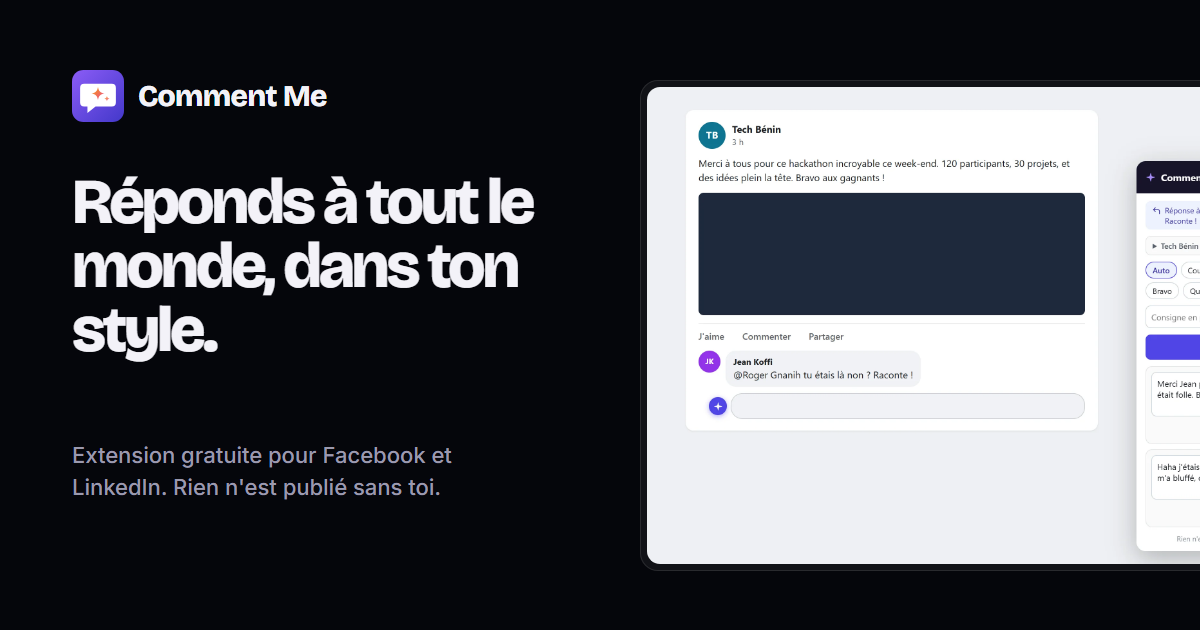
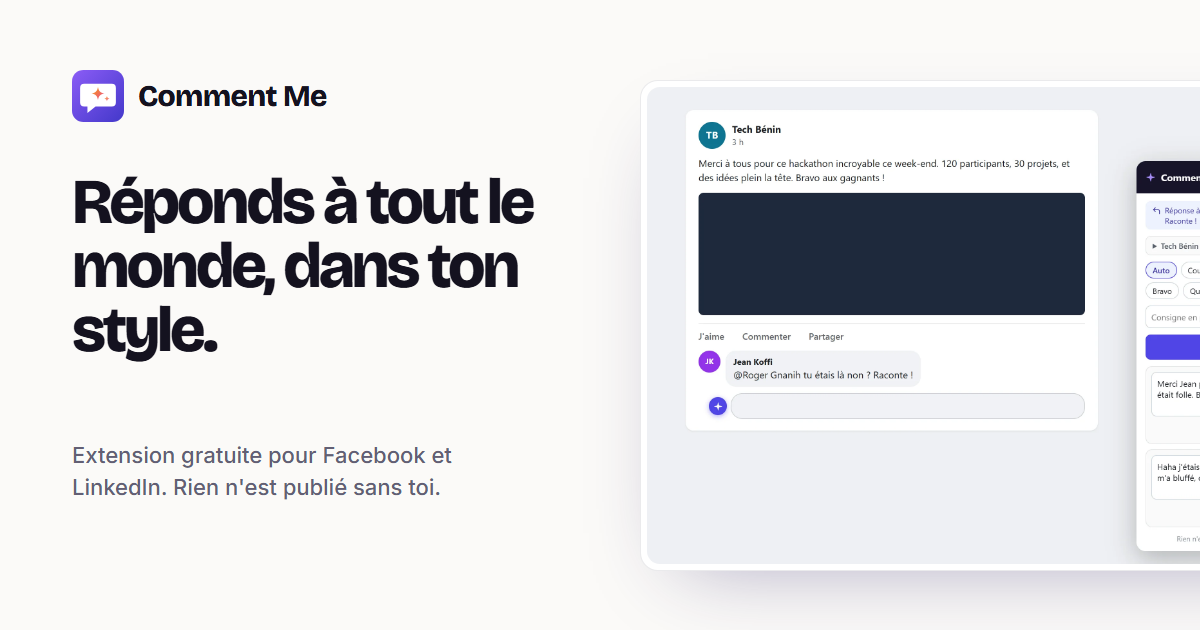
Site : thème clair, aperçu de lien clair, retrait de caractères parasites

diff --git a/docs/style.css b/docs/style.css
@@ -1,11 +1,11 @@
 :root {
-  --bg: #05060b;
-  --bg-2: #0b0c14;
-  --line: rgba(255, 255, 255, .08);
-  --text: #f3f2f8;
-  --muted: #9b99ae;
-  --soft: #c9c7d6;
-  --accent: #8b7cf6;
+  --bg: #fbfaf8;
+  --bg-2: #ffffff;
+  --line: rgba(20, 18, 40, .09);
+  --text: #14121f;
+  --muted: #625f74;
+  --soft: #3c3a4c;
+  --accent: #5b45e0;
   --radius: 22px;
   --display: "Bricolage Grotesque", "Segoe UI Variable Display", "Segoe UI", system-ui, sans-serif;
   --body: "Inter", "Segoe UI Variable Text", "Segoe UI", system-ui, sans-serif;
@@ -20,12 +20,12 @@ h1, h2, h3 { font-family: var(--display); margin: 0; letter-spacing: -.035em; li
 p { margin: 0; }
 .wrap { max-width: 1080px; margin: 0 auto; padding: 0 24px; }
 .icon { width: 20px; height: 20px; flex: none; }
-.skip { position: absolute; left: -999px; top: 8px; background: #fff; color: #000; padding: 8px 14px; border-radius: 8px; z-index: 100; }
+.skip { position: absolute; left: -999px; top: 8px; background: #14121f; color: #fff; padding: 8px 14px; border-radius: 8px; z-index: 100; }
 .skip:focus { left: 8px; }
 :focus-visible { outline: 2px solid var(--accent); outline-offset: 3px; border-radius: 6px; }
 
 /* Navigation */
-.nav { position: sticky; top: 0; z-index: 50; background: rgba(5, 6, 11, .72); backdrop-filter: blur(14px); -webkit-backdrop-filter: blur(14px); border-bottom: 1px solid transparent; transition: border-color .2s; }
+.nav { position: sticky; top: 0; z-index: 50; background: rgba(251, 250, 248, .8); backdrop-filter: blur(14px); -webkit-backdrop-filter: blur(14px); border-bottom: 1px solid transparent; transition: border-color .2s; }
 .nav.scrolled { border-color: var(--line); }
 .nav .wrap { display: flex; align-items: center; justify-content: space-between; height: 68px; max-width: 1200px; }
 .brand { display: flex; align-items: center; gap: 10px; font: 700 17px var(--display); text-decoration: none; letter-spacing: -.02em; }
@@ -33,28 +33,28 @@ p { margin: 0; }
 .nav ul { display: flex; align-items: center; gap: 26px; list-style: none; margin: 0; padding: 0; font-size: 15px; }
 .nav ul a { text-decoration: none; color: var(--muted); transition: color .15s; }
 .nav ul a:hover { color: var(--text); }
-.nav ul a.btn-light, .nav ul a.btn-light:hover { color: #0b0b12; }
+.nav ul a.btn-light, .nav ul a.btn-light:hover { color: #fff; }
 
 /* Boutons */
 .btn { display: inline-flex; align-items: center; justify-content: center; gap: 10px; height: 52px; padding: 0 26px; border-radius: 999px; font: 600 16px var(--body); text-decoration: none; transition: transform .15s, background .15s, border-color .15s; border: 1px solid transparent; }
 .btn:hover { transform: translateY(-1px); }
-.btn-light { background: #fff; color: #0b0b12; }
-.btn-light:hover { background: #ecebf3; }
-.btn-dark { background: rgba(255, 255, 255, .04); color: var(--text); border-color: rgba(255, 255, 255, .16); }
-.btn-dark:hover { border-color: rgba(255, 255, 255, .32); }
+.btn-light { background: #14121f; color: #fff; }
+.btn-light:hover { background: #2a2740; }
+.btn-dark { background: #fff; color: var(--text); border-color: rgba(20, 18, 40, .14); }
+.btn-dark:hover { border-color: rgba(20, 18, 40, .3); }
 .btn-sm { height: 38px; padding: 0 16px; font-size: 14px; }
 
 /* Héros */
 .hero { position: relative; text-align: center; padding: 76px 0 40px; overflow: hidden; }
-.hero::before { content: ""; position: absolute; left: 50%; top: 360px; width: 760px; height: 420px; transform: translateX(-50%); background: radial-gradient(closest-side, rgba(110, 90, 240, .22), transparent); pointer-events: none; }
-.badge { display: inline-flex; align-items: center; gap: 8px; padding: 6px 14px; border: 1px solid var(--line); border-radius: 999px; font-size: 14px; color: var(--soft); background: rgba(255, 255, 255, .02); }
-.badge .dot { width: 7px; height: 7px; border-radius: 50%; background: #34d399; }
+.hero::before { content: ""; position: absolute; left: 50%; top: 360px; width: 760px; height: 420px; transform: translateX(-50%); background: radial-gradient(closest-side, rgba(110, 90, 240, .12), transparent); pointer-events: none; }
+.badge { display: inline-flex; align-items: center; gap: 8px; padding: 6px 14px; border: 1px solid var(--line); border-radius: 999px; font-size: 14px; color: var(--soft); background: #fff; }
+.badge .dot { width: 7px; height: 7px; border-radius: 50%; background: #16a34a; }
 .hero h1 { font-size: clamp(44px, 7.4vw, 92px); font-weight: 800; margin: 26px auto 22px; max-width: 11.5em; letter-spacing: -.05em; line-height: .98; }
 .hero .lead { font-size: clamp(17px, 2vw, 20px); color: var(--muted); max-width: 37em; margin: 0 auto; }
 .cta { display: flex; gap: 12px; justify-content: center; flex-wrap: wrap; margin-top: 34px; }
 .meta { margin-top: 18px; font-size: 14px; color: var(--muted); }
 .meta b { color: var(--soft); font-weight: 600; }
-.hero-shot { position: relative; margin: 64px auto 0; max-width: 1000px; border-radius: 20px; padding: 8px; background: rgba(255, 255, 255, .04); border: 1px solid var(--line); }
+.hero-shot { position: relative; margin: 64px auto 0; max-width: 1000px; border-radius: 20px; padding: 8px; background: #fff; border: 1px solid var(--line); box-shadow: 0 30px 80px -40px rgba(40, 30, 100, .35); }
 .hero-shot img { border-radius: 14px; width: 100%; height: auto; }
 
 /* Sections */
@@ -75,7 +75,7 @@ section { padding: 110px 0; }
 .feature { display: flex; gap: 20px; padding: 26px 0; border-bottom: 1px solid var(--line); }
 .feature h3 { font-size: 20px; letter-spacing: -.02em; margin: 2px 0 6px; }
 .feature p { color: var(--muted); font-size: 15.5px; }
-.tile { width: 50px; height: 50px; border-radius: 14px; display: grid; place-items: center; flex: none; color: #fff; box-shadow: inset 0 1px 0 rgba(255, 255, 255, .28), 0 8px 22px -10px var(--c); background: var(--c); }
+.tile { width: 50px; height: 50px; border-radius: 14px; display: grid; place-items: center; flex: none; color: #fff; box-shadow: inset 0 1px 0 rgba(255, 255, 255, .28), 0 8px 18px -10px var(--c); background: var(--c); }
 .tile .icon { width: 24px; height: 24px; }
 .t-violet { --c: #7c5cf0; } .t-amber { --c: #e8930c; } .t-sky { --c: #2a8ff0; }
 .t-rose { --c: #e2457a; } .t-green { --c: #1fa463; } .t-slate { --c: #5d6478; } .t-teal { --c: #0f9d9a; }
@@ -84,27 +84,27 @@ section { padding: 110px 0; }
 .show { display: grid; grid-template-columns: 1.25fr 1fr; gap: 64px; align-items: center; margin-top: 90px; }
 .show:first-of-type { margin-top: 56px; }
 .show.rev .shot { order: 2; }
-.shot { border-radius: 18px; padding: 6px; background: rgba(255, 255, 255, .04); border: 1px solid var(--line); }
+.shot { border-radius: 18px; padding: 6px; background: #fff; border: 1px solid var(--line); box-shadow: 0 24px 60px -36px rgba(40, 30, 100, .3); }
 .shot img { border-radius: 13px; width: 100%; height: auto; }
 .show h3 { font-size: clamp(28px, 3.4vw, 38px); font-weight: 800; letter-spacing: -.04em; }
 .show p { color: var(--muted); margin-top: 16px; font-size: 17px; }
 .checks { list-style: none; padding: 0; margin: 22px 0 0; display: grid; gap: 10px; color: var(--soft); font-size: 15.5px; }
 .checks li { display: flex; gap: 10px; align-items: flex-start; }
-.checks .icon { width: 18px; height: 18px; color: #34d399; margin-top: 3px; }
+.checks .icon { width: 18px; height: 18px; color: #16a34a; margin-top: 3px; }
 
 /* Étapes */
 .steps { display: grid; grid-template-columns: repeat(3, 1fr); gap: 18px; margin-top: 56px; counter-reset: s; }
-.step { padding: 30px; border-radius: var(--radius); background: var(--bg-2); border: 1px solid var(--line); }
-.step::before { counter-increment: s; content: counter(s); display: grid; place-items: center; width: 36px; height: 36px; border-radius: 10px; background: rgba(139, 124, 246, .14); color: var(--accent); font: 700 16px var(--display); margin-bottom: 22px; }
+.step { box-shadow: 0 1px 2px rgba(20, 18, 40, .04); padding: 30px; border-radius: var(--radius); background: var(--bg-2); border: 1px solid var(--line); }
+.step::before { counter-increment: s; content: counter(s); display: grid; place-items: center; width: 36px; height: 36px; border-radius: 10px; background: rgba(91, 69, 224, .1); color: var(--accent); font: 700 16px var(--display); margin-bottom: 22px; }
 .step h3 { font-size: 21px; letter-spacing: -.02em; margin-bottom: 8px; }
 .step p { color: var(--muted); font-size: 15.5px; }
 
 /* Fournisseurs d'IA */
 .ai { display: grid; grid-template-columns: repeat(4, 1fr); gap: 1px; margin-top: 52px; background: var(--line); border: 1px solid var(--line); border-radius: var(--radius); overflow: hidden; }
-.ai div { background: var(--bg); padding: 22px 24px; }
+.ai div { background: #fff; padding: 22px 24px; }
 .ai b { display: block; font: 600 17px var(--display); letter-spacing: -.01em; }
 .ai span { font-size: 14px; color: var(--muted); }
-.ai .free span { color: #34d399; }
+.ai .free span { color: #15803d; }
 
 /* Engagements */
 .trio { display: grid; grid-template-columns: repeat(3, 1fr); gap: 48px; margin-top: 56px; }
@@ -118,8 +118,8 @@ section { padding: 110px 0; }
 .card ol { margin: 0; padding-left: 20px; color: var(--soft); display: grid; gap: 9px; }
 .card ol li::marker { color: var(--muted); }
 .card p { color: var(--muted); }
-code { font: 500 .88em ui-monospace, "Cascadia Code", Consolas, monospace; background: rgba(255, 255, 255, .07); padding: 2px 7px; border-radius: 6px; color: var(--text); }
-.pill { display: inline-block; font: 600 12px var(--body); color: #fbbf24; border: 1px solid rgba(251, 191, 36, .35); border-radius: 999px; padding: 2px 10px; margin-left: 8px; vertical-align: 3px; letter-spacing: 0; }
+code { font: 500 .88em ui-monospace, "Cascadia Code", Consolas, monospace; background: rgba(91, 69, 224, .08); padding: 2px 7px; border-radius: 6px; color: var(--text); }
+.pill { display: inline-block; font: 600 12px var(--body); color: #a16207; background: #fef9c3; border: 1px solid #fde68a; border-radius: 999px; padding: 2px 10px; margin-left: 8px; vertical-align: 3px; letter-spacing: 0; }
 
 /* FAQ */
 .faq { max-width: 780px; margin: 48px auto 0; }
@@ -133,7 +133,7 @@ code { font: 500 .88em ui-monospace, "Cascadia Code", Consolas, monospace; backg
 /* Contact */
 .contact { display: grid; grid-template-columns: repeat(3, 1fr); gap: 18px; margin-top: 52px; }
 .contact a { display: block; text-decoration: none; padding: 28px; border-radius: var(--radius); background: var(--bg-2); border: 1px solid var(--line); transition: border-color .15s, transform .15s; }
-.contact a:hover { border-color: rgba(255, 255, 255, .22); transform: translateY(-2px); }
+.contact a:hover { border-color: rgba(20, 18, 40, .2); transform: translateY(-2px); }
 .contact h3 { font-size: 19px; letter-spacing: -.02em; margin: 18px 0 6px; }
 .contact p { color: var(--muted); font-size: 15px; }
 
@@ -161,7 +161,7 @@ footer a:hover { color: var(--text); }
 
 /* 404 */
 .notfound { min-height: calc(100vh - 68px); display: grid; place-items: center; text-align: center; padding: 60px 24px; }
-.notfound .big { font: 800 clamp(110px, 22vw, 200px) var(--display); letter-spacing: -.06em; line-height: .9; color: rgba(255, 255, 255, .1); }
+.notfound .big { font: 800 clamp(110px, 22vw, 200px) var(--display); letter-spacing: -.06em; line-height: .9; color: rgba(20, 18, 40, .07); }
 .notfound h1 { font-size: clamp(30px, 4.6vw, 46px); font-weight: 800; margin-top: 10px; }
 .notfound p { color: var(--muted); margin: 14px auto 32px; max-width: 30em; }
 

diff --git a/docs/index.html b/docs/index.html
@@ -6,7 +6,7 @@
   <title>Comment Me : réponds à tout le monde, dans ton style</title>
   <meta name="description" content="Extension gratuite pour Facebook et LinkedIn : elle lit la publication, la résume et propose des commentaires dans ton style. Tu publies toi-même.">
   <link rel="canonical" href="https://rogerfarolix.github.io/comment-me/">
-  <meta name="theme-color" content="#05060b">
+  <meta name="theme-color" content="#fbfaf8">
 
   <meta property="og:type" content="website">
   <meta property="og:locale" content="fr_FR">
@@ -121,8 +121,8 @@
           <div class="feature reveal"><div class="tile t-amber"><svg class="icon"><use href="#i-zap"/></svg></div><div><h3>Prêt avant que tu demandes</h3><p>Les propositions se préparent dès que tu cliques dans la zone de commentaire. Le texte s'écrit sous tes yeux.</p></div></div>
           <div class="feature reveal"><div class="tile t-sky"><svg class="icon"><use href="#i-at"/></svg></div><div><h3>Répond aux tags</h3><p>L'extension comprend à quel commentaire tu réponds et qui t'a mentionné.</p></div></div>
           <div class="feature reveal"><div class="tile t-rose"><svg class="icon"><use href="#i-bell"/></svg></div><div><h3>Toutes tes notifications d'un coup</h3><p>Sur ta page Notifications, un bouton prépare une réponse pour chaque mention.</p></div></div>
-          <div class="feature reveal"><div class="tile t-green"><svg class="icon"><use href="#i-doc"/></svg></div><div><h3>Résumé en dix secondes</h3><p>Une longue publication&nbsp;? L'essentiel, les points clés et ce qu'on attend de toi.</p></div></div>
-          <div class="feature reveal"><div class="tile t-slate"><svg class="icon"><use href="#i-image"/></svg></div><div><h3>Lit aussi les images</h3><p>Une photo sans texte&nbsp;? L'IA la regarde pour écrire un commentaire pertinent.</p></div></div>
+          <div class="feature reveal"><div class="tile t-green"><svg class="icon"><use href="#i-doc"/></svg></div><div><h3>Résumé en dix secondes</h3><p>Une longue publication&nbsp;? L'essentiel, les points clés et ce qu'on attend de toi.</p></div></div>
+          <div class="feature reveal"><div class="tile t-slate"><svg class="icon"><use href="#i-image"/></svg></div><div><h3>Lit aussi les images</h3><p>Une photo sans texte&nbsp;? L'IA la regarde pour écrire un commentaire pertinent.</p></div></div>
         </div>
 
         <div class="show reveal">
@@ -141,7 +141,7 @@
         <div class="show rev reveal">
           <figure class="shot" style="margin:0"><img src="img/notifications.webp" width="2360" height="1480" loading="lazy" alt="Page de notifications Facebook : Comment Me a préparé une réponse pour la mention de Jean Koffi et pour celle d'Awa Diallo, et ignoré un simple « j'aime »."></figure>
           <div>
-            <h3>Vingt tags ce matin&nbsp;? Aucun problème.</h3>
+            <h3>Vingt tags ce matin&nbsp;? Aucun problème.</h3>
             <p>Ouvre tes notifications et clique sur « Répondre aux tags ». Chaque mention reçoit une réponse prête. Copie, ouvre, publie.</p>
             <ul class="checks">
               <li><svg class="icon"><use href="#i-check"/></svg>Seules les mentions et réponses sont retenues</li>
@@ -227,31 +227,31 @@
         </div>
         <div class="faq reveal">
           <details>
-            <summary>Est-ce vraiment gratuit&nbsp;?<svg class="icon"><use href="#i-chev"/></svg></summary>
+            <summary>Est-ce vraiment gratuit&nbsp;?<svg class="icon"><use href="#i-chev"/></svg></summary>
             <p>Oui. L'extension est gratuite et open source. L'IA, elle, dépend du fournisseur choisi : Google Gemini, Groq, Mistral, OpenRouter et Ollama proposent des offres gratuites, largement suffisantes pour un usage personnel.</p>
           </details>
           <details>
-            <summary>Est-ce que l'extension publie à ma place&nbsp;?<svg class="icon"><use href="#i-chev"/></svg></summary>
+            <summary>Est-ce que l'extension publie à ma place&nbsp;?<svg class="icon"><use href="#i-chev"/></svg></summary>
             <p>Jamais. Elle prépare le texte et peut le placer dans la zone de commentaire. Le clic sur « Publier » reste toujours le tien.</p>
           </details>
           <details>
-            <summary>Mon compte Facebook ou LinkedIn risque-t-il quelque chose&nbsp;?<svg class="icon"><use href="#i-chev"/></svg></summary>
+            <summary>Mon compte Facebook ou LinkedIn risque-t-il quelque chose&nbsp;?<svg class="icon"><use href="#i-chev"/></svg></summary>
             <p>L'extension n'automatise aucune action : pas de publication, pas de « j'aime », pas de clic à ta place sur les boutons de publication. Elle se contente de lire la page que tu consultes et de t'aider à écrire, comme un correcteur ou un assistant d'écriture.</p>
           </details>
           <details>
-            <summary>Où vont mes données&nbsp;?<svg class="icon"><use href="#i-chev"/></svg></summary>
+            <summary>Où vont mes données&nbsp;?<svg class="icon"><use href="#i-chev"/></svg></summary>
             <p>Tes réglages et ta clé restent dans ton navigateur. Le texte d'une publication est envoyé uniquement au fournisseur d'IA que tu as choisi, au moment où une proposition est demandée. Il n'y a aucun serveur Comment Me. Tous les détails sont dans la <a href="confidentialite.html">politique de confidentialité</a>.</p>
           </details>
           <details>
-            <summary>Comment l'IA apprend-elle mon style&nbsp;?<svg class="icon"><use href="#i-chev"/></svg></summary>
+            <summary>Comment l'IA apprend-elle mon style&nbsp;?<svg class="icon"><use href="#i-chev"/></svg></summary>
             <p>Dans les réglages, colle une dizaine de tes vrais commentaires. Un bouton peut aussi décrire ton style automatiquement. Si tu le souhaites, l'extension retient ensuite les commentaires que tu publies vraiment, sur ton ordinateur uniquement.</p>
           </details>
           <details>
-            <summary>Le bouton n'apparaît pas sur Facebook ou LinkedIn. Que faire&nbsp;?<svg class="icon"><use href="#i-chev"/></svg></summary>
+            <summary>Le bouton n'apparaît pas sur Facebook ou LinkedIn. Que faire&nbsp;?<svg class="icon"><use href="#i-chev"/></svg></summary>
             <p>Recharge la page. Ces sites changent souvent leur code : si le bouton reste absent, sélectionne le texte de la publication puis fais un clic droit, « Proposer un commentaire ». Signale-nous le problème pour qu'on le corrige.</p>
           </details>
           <details>
-            <summary>Pourquoi passer par le mode développeur&nbsp;?<svg class="icon"><use href="#i-chev"/></svg></summary>
+            <summary>Pourquoi passer par le mode développeur&nbsp;?<svg class="icon"><use href="#i-chev"/></svg></summary>
             <p>Les navigateurs n'installent en un clic que les extensions publiées dans leur boutique. La publication sur le Chrome Web Store, Edge Add-ons et Firefox Add-ons est en préparation. D'ici là, le mode développeur permet d'installer la version officielle téléchargée sur GitHub.</p>
           </details>
         </div>
@@ -262,12 +262,12 @@
       <div class="wrap">
         <div class="reveal">
           <p class="eyebrow">Contact</p>
-          <h2 id="c-title" class="title">Une question, un bug, une idée&nbsp;?</h2>
+          <h2 id="c-title" class="title">Une question, un bug, une idée&nbsp;?</h2>
           <p class="sub">Le projet vit sur GitHub. Écris-nous, on répond.</p>
         </div>
         <div class="contact">
-          <a class="reveal" href="https://github.com/rogerfarolix/comment-me/issues/new?labels=bug&amp;title=%5BBug%5D%20"><div class="tile t-rose"><svg class="icon"><use href="#i-help"/></svg></div><h3>Signaler un problème</h3><p>Le bouton n'apparaît pas, une réponse est bizarre&nbsp;? Décris-nous ce qui se passe.</p></a>
-          <a class="reveal" href="https://github.com/rogerfarolix/comment-me/issues/new?labels=enhancement&amp;title=%5BId%C3%A9e%5D%20"><div class="tile t-amber"><svg class="icon"><use href="#i-bulb"/></svg></div><h3>Proposer une idée</h3><p>Une fonctionnalité qui te ferait gagner du temps&nbsp;? Dis-le-nous.</p></a>
+          <a class="reveal" href="https://github.com/rogerfarolix/comment-me/issues/new?labels=bug&amp;title=%5BBug%5D%20"><div class="tile t-rose"><svg class="icon"><use href="#i-help"/></svg></div><h3>Signaler un problème</h3><p>Le bouton n'apparaît pas, une réponse est bizarre&nbsp;? Décris-nous ce qui se passe.</p></a>
+          <a class="reveal" href="https://github.com/rogerfarolix/comment-me/issues/new?labels=enhancement&amp;title=%5BId%C3%A9e%5D%20"><div class="tile t-amber"><svg class="icon"><use href="#i-bulb"/></svg></div><h3>Proposer une idée</h3><p>Une fonctionnalité qui te ferait gagner du temps&nbsp;? Dis-le-nous.</p></a>
           <a class="reveal" href="https://github.com/rogerfarolix/comment-me"><div class="tile t-slate"><svg class="icon"><use href="#i-github"/></svg></div><h3>Contribuer au code</h3><p>Le code est ouvert. Les pull requests sont les bienvenues.</p></a>
         </div>
       </div>

diff --git a/docs/confidentialite.html b/docs/confidentialite.html
@@ -6,7 +6,7 @@
   <title>Politique de confidentialité | Comment Me</title>
   <meta name="description" content="Comment Me ne collecte aucune donnée. Ce que l'extension traite, où vont tes données et comment tout effacer.">
   <link rel="canonical" href="https://rogerfarolix.github.io/comment-me/confidentialite.html">
-  <meta name="theme-color" content="#05060b">
+  <meta name="theme-color" content="#fbfaf8">
   <meta property="og:title" content="Politique de confidentialité | Comment Me">
   <meta property="og:description" content="Comment Me ne collecte aucune donnée. Ce que l'extension traite et où vont tes données.">
   <meta property="og:image" content="https://rogerfarolix.github.io/comment-me/img/og.png">

diff --git a/docs/conditions.html b/docs/conditions.html
@@ -6,7 +6,7 @@
   <title>Conditions d'utilisation | Comment Me</title>
   <meta name="description" content="Conditions d'utilisation de Comment Me, extension gratuite et open source sous licence MIT.">
   <link rel="canonical" href="https://rogerfarolix.github.io/comment-me/conditions.html">
-  <meta name="theme-color" content="#05060b">
+  <meta name="theme-color" content="#fbfaf8">
   <meta property="og:title" content="Conditions d'utilisation | Comment Me">
   <meta property="og:description" content="Conditions d'utilisation de Comment Me, extension gratuite et open source.">
   <meta property="og:image" content="https://rogerfarolix.github.io/comment-me/img/og.png">

diff --git a/docs/404.html b/docs/404.html
@@ -6,7 +6,7 @@
   <title>Page introuvable | Comment Me</title>
   <meta name="description" content="Cette page n'existe pas ou a été déplacée.">
   <meta name="robots" content="noindex">
-  <meta name="theme-color" content="#05060b">
+  <meta name="theme-color" content="#fbfaf8">
   <link rel="icon" href="/comment-me/img/logo.svg" type="image/svg+xml">
   <link rel="preconnect" href="https://fonts.googleapis.com">
   <link rel="preconnect" href="https://fonts.gstatic.com" crossorigin>
